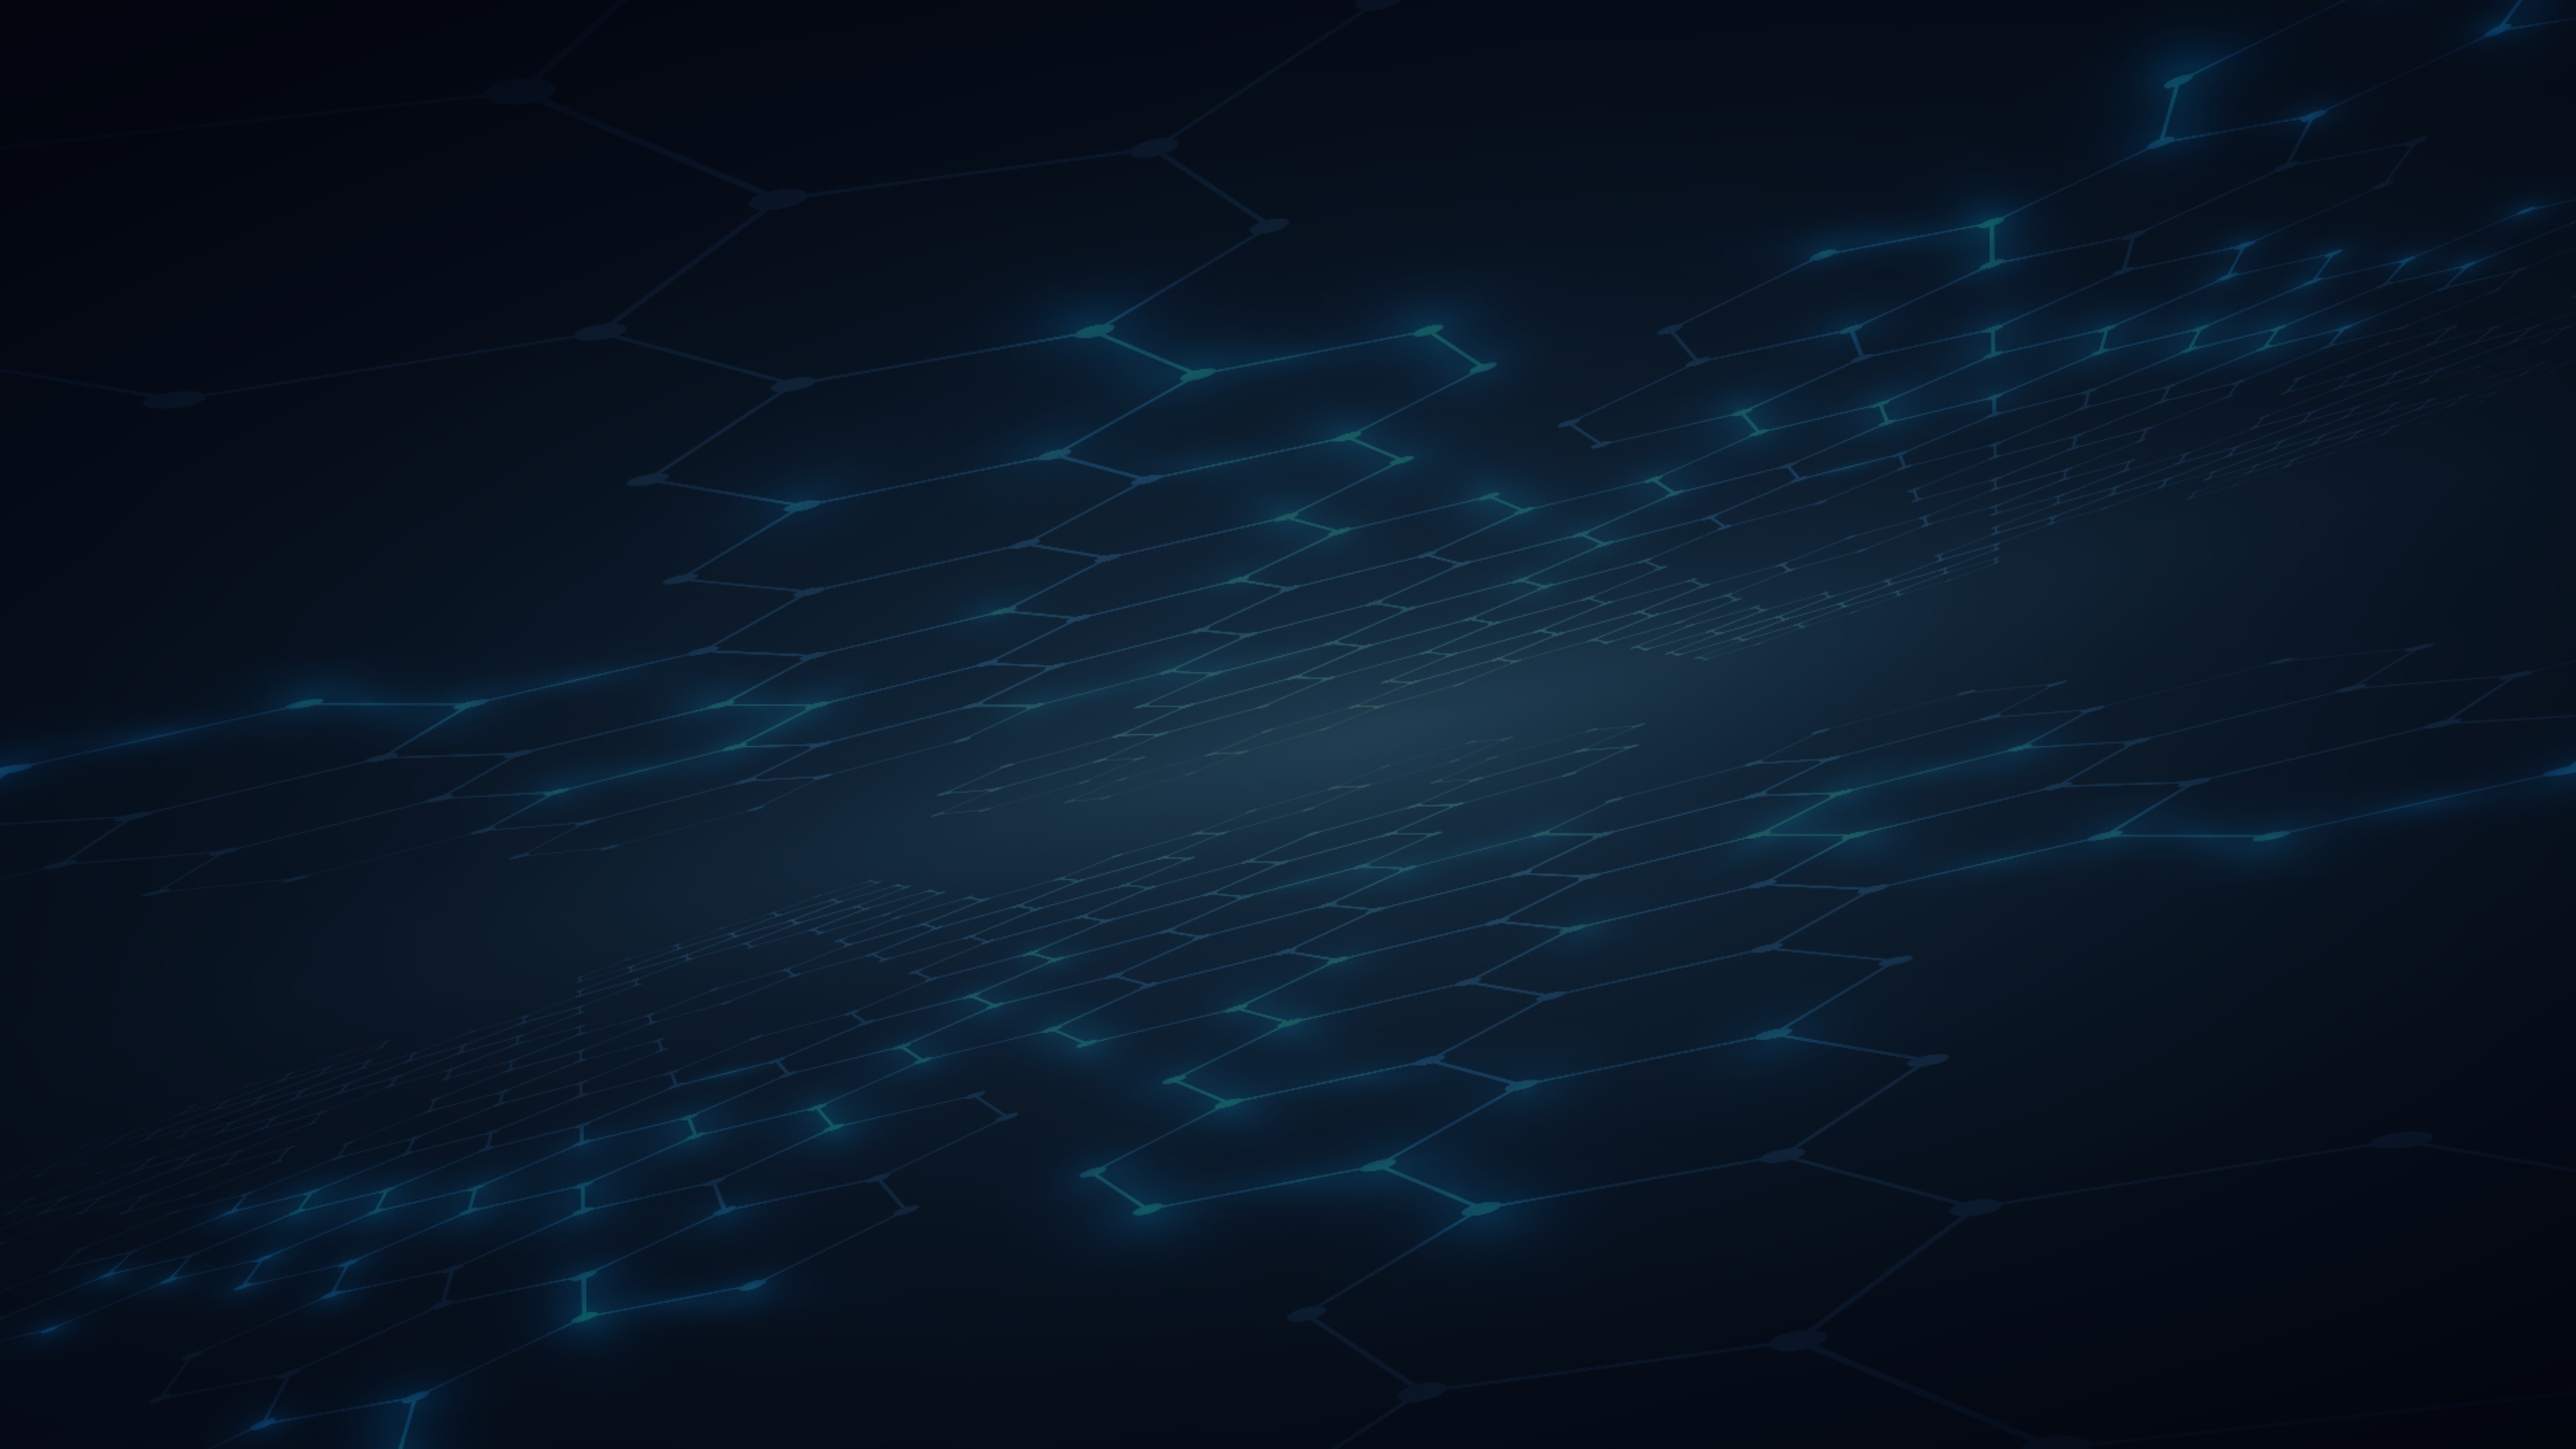
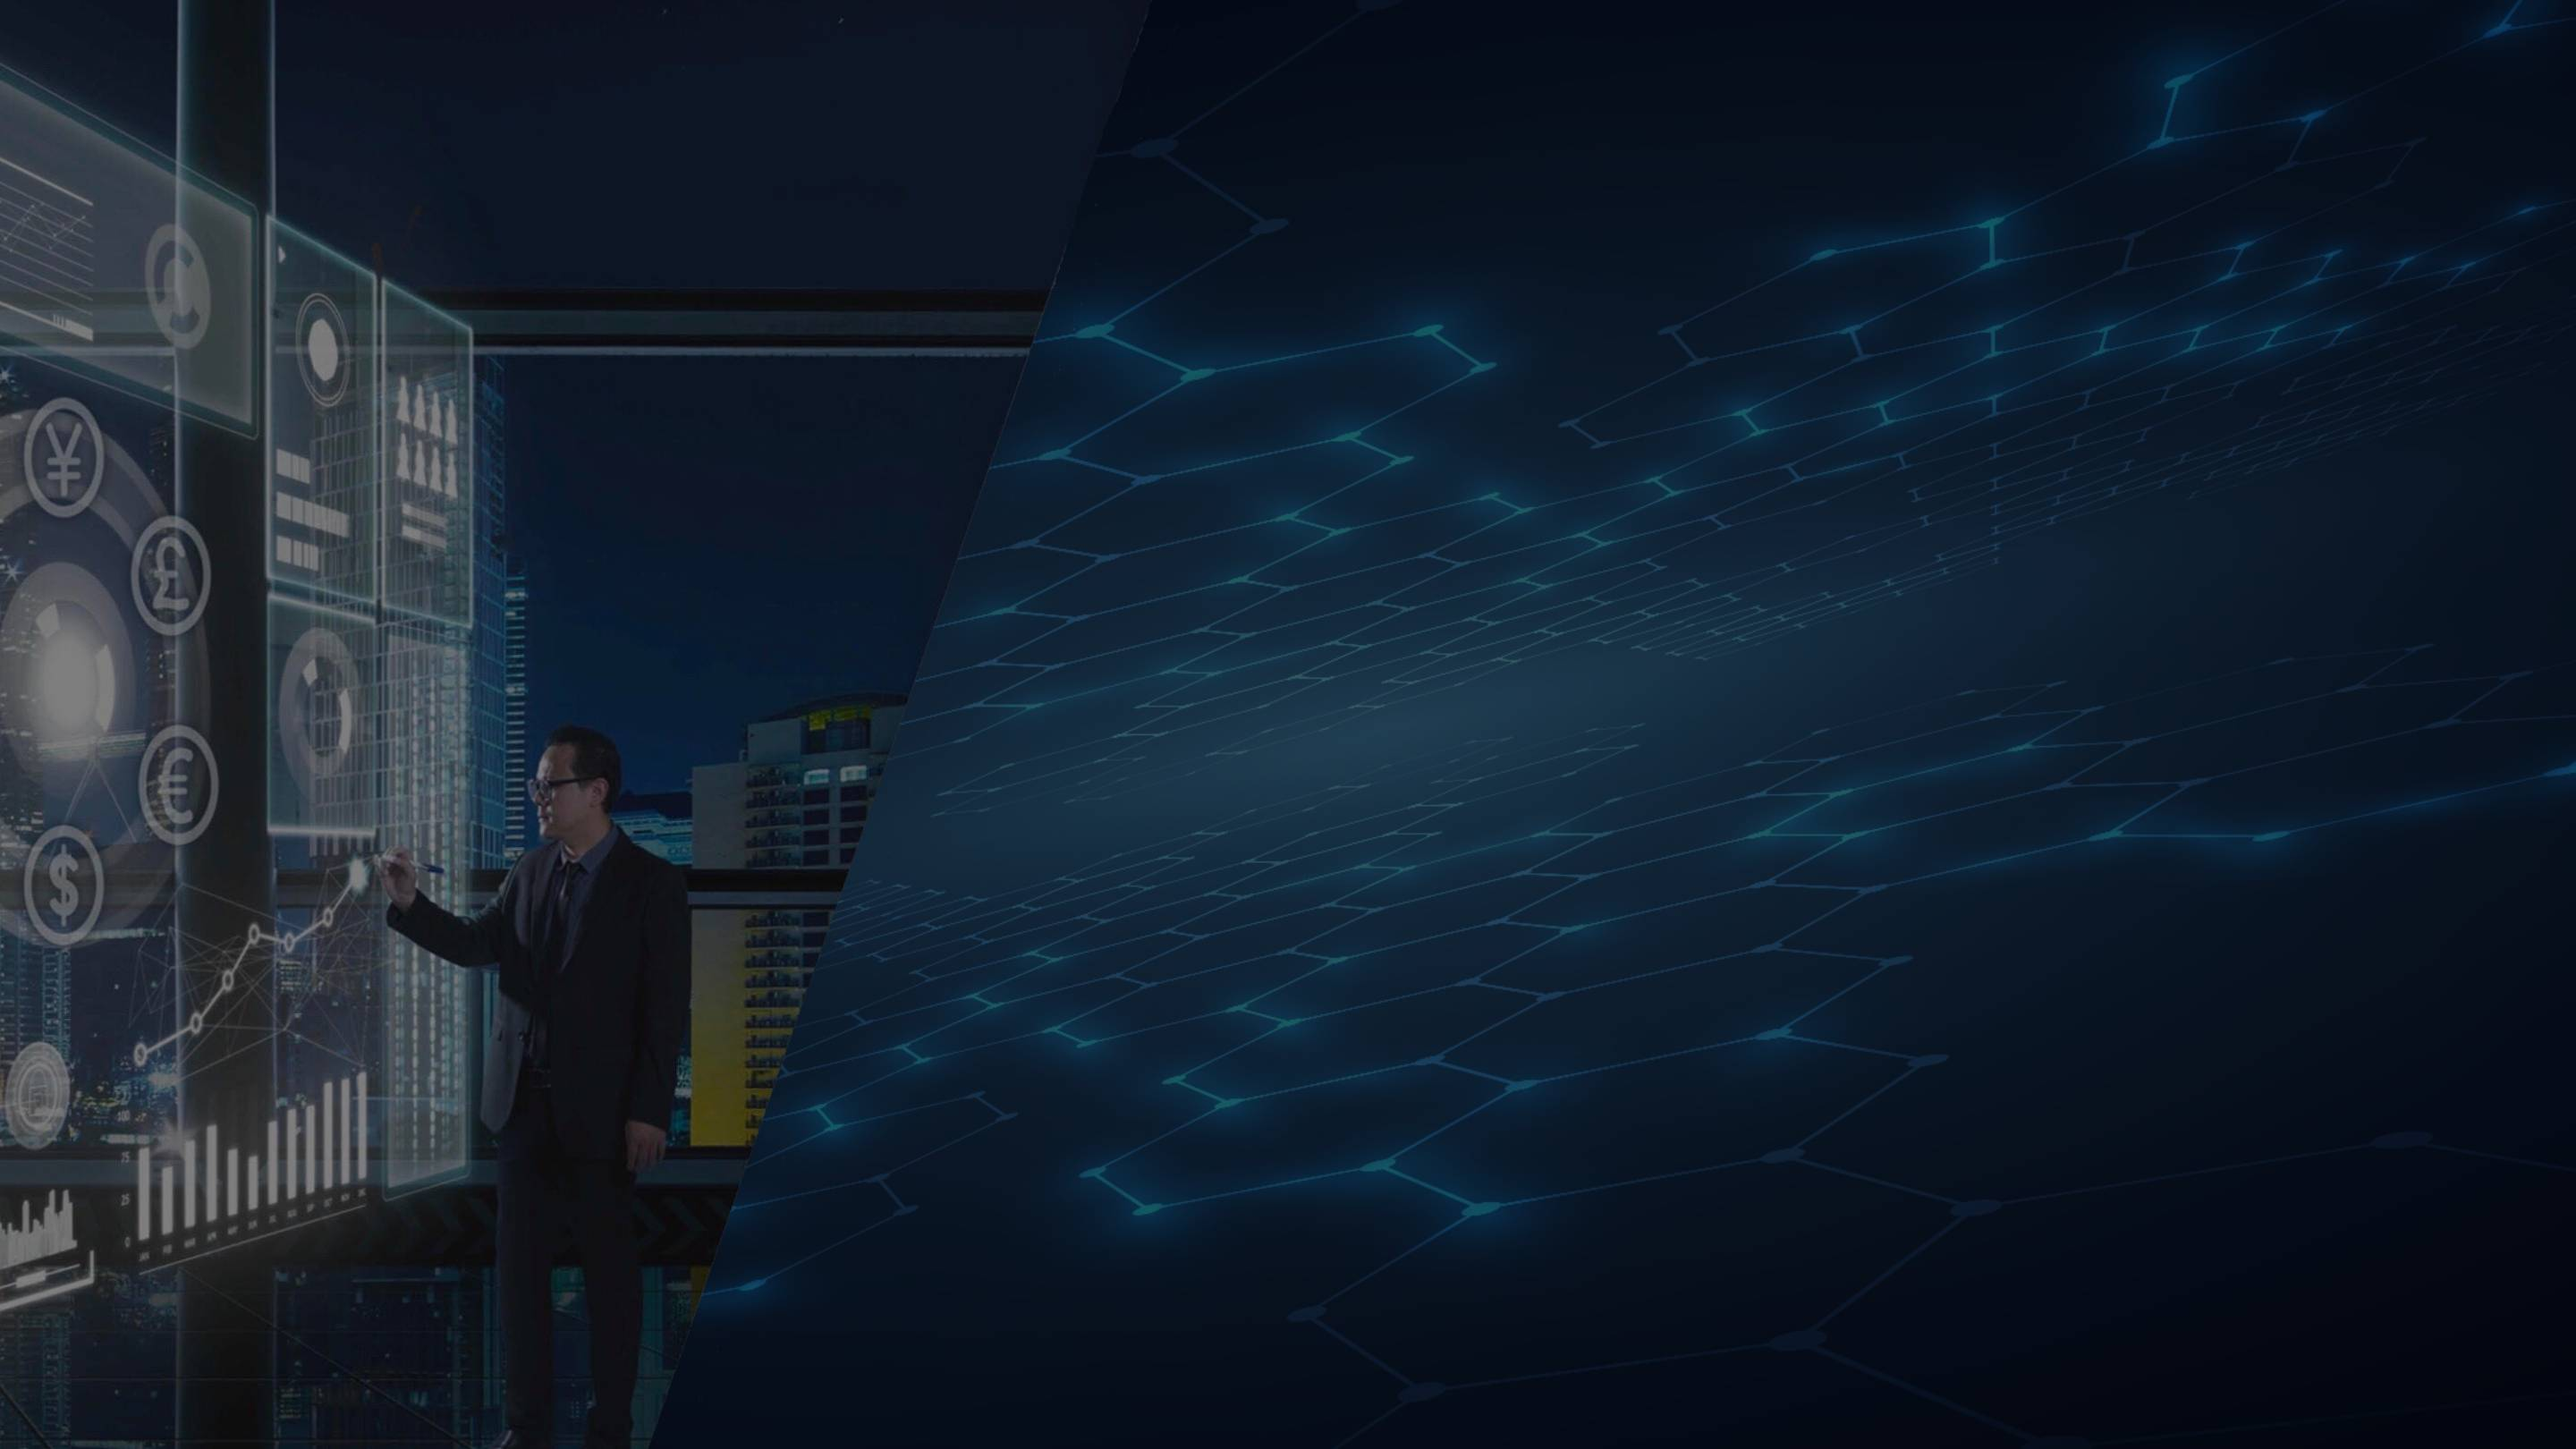
new background

Changed region(s): [[0.0, 0.0, 0.4062, 1.0], [0.0938, 0.9568, 0.2188, 1.0], [0.2812, 0.3395, 0.3125, 0.3704]]

diff --git a/NTTDataAssesment/index1.html b/NTTDataAssesment/index1.html
@@ -11,12 +11,21 @@
     <div class="parent">
     
         <div class="one">
+           <div id="left-background-div">
             <img src="images/winnersblue.jpeg">
+            
+        </div>
 
         <h1>Winners of Tomorrow</h1>
+        <div id="buttons-container">
+        <img id="buttons" src="images/button-customer@2x.png">
+        <img id="buttons" src="images/button-customer@2x.png">
+        <img id="buttons" src="images/button-customer@2x.png">
+        <img id="buttons" src="images/button-customer@2x.png">
+    </div>
         </div>
         <div class="two">
-            <div id="background-div">
+            <div id="right-background-div">
             <img id="right-background-img" src="images/BKGND-01.jpg">
         </div>
             <img id="ball-person" src="images/ball-personPNG.png">

diff --git a/NTTDataAssesment/styles1.css b/NTTDataAssesment/styles1.css
@@ -1,7 +1,8 @@
 .parent {
     position: relative;
-    width: 100%;
+    width: 80%;
     height: 1200px; 
+    margin: 0 auto; 
   }
   .two, .one {
     position: absolute;
@@ -48,14 +49,26 @@
     clip-path: polygon(19% 0, 100% 0%, 100% 100%, 0% 100%);
 }
 
-#background-div {
+#right-background-div {
     position: relative; 
     width: 100%; 
     height: 100%; 
 }
 
 #ball-person {
-    position: absolute; 
+    position: absolute;
+    top: 100px;
+    right: 100px;
+    width: 50px;
   
 }
-  
+
+#left-background-div {
+    position: relative; 
+    width: 100%; 
+    height: 100%; 
+}
+
+#buttons-container {
+    position: absolute; 
+}

diff --git a/NTTDataAssesment/index2.html b/NTTDataAssesment/index2.html
@@ -1,0 +1,16 @@
+<!DOCTYPE html>
+<html lang="en">
+<head>
+    <meta charset="UTF-8">
+    <meta http-equiv="X-UA-Compatible" content="IE=edge">
+    <meta name="viewport" content="width=device-width, initial-scale=1.0">
+    <title>Document</title>
+    <link rel="stylesheet" href="styles2.css">
+</head>
+<body>
+<div class="container">
+    <img src="images/BKGND-01.jpg">
+</div>
+
+</body>
+</html>

diff --git a/NTTDataAssesment/styles2.css b/NTTDataAssesment/styles2.css
@@ -1,0 +1,11 @@
+.container {
+    height: 80vh;
+    width: 80vw;
+    margin: 0 auto;
+}
+
+.container img {
+    max-width: 100%; 
+    max-height: 100%; 
+    /* object-fit: contain; */
+}
